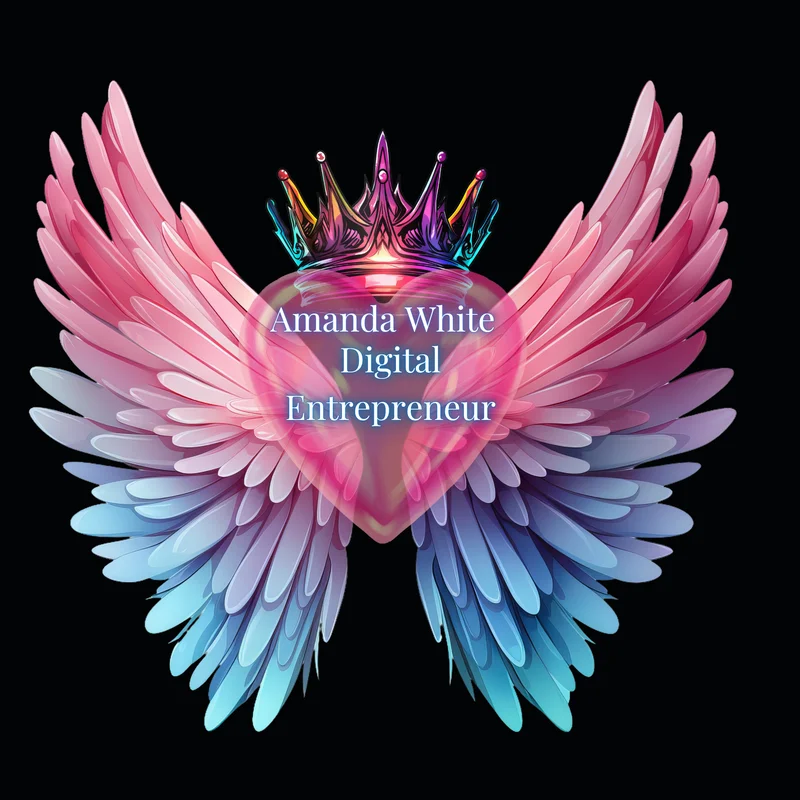
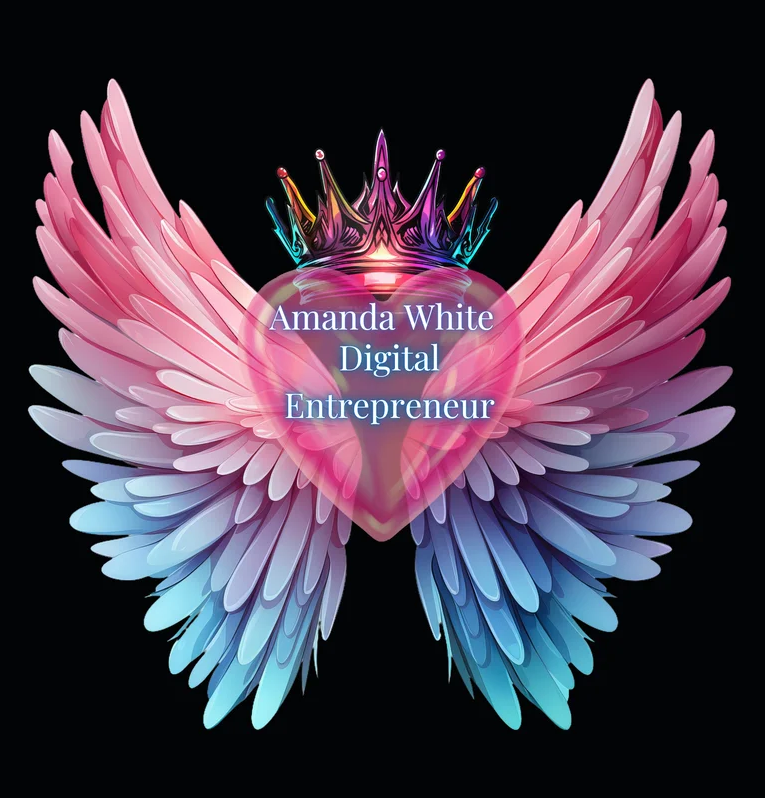
updated image stylings

diff --git a/src/app/page.tsx b/src/app/page.tsx
@@ -250,11 +250,11 @@ export default function Home() {
                     'linear-gradient(to bottom, rgba(0, 0, 0, 0) 0%, rgba(0, 0, 0, 0.8) 50%, rgba(0, 0, 0, 0.95) 75%, #000000 100%)',
                 }}
               />
-              <div className="mx-auto h-[40dvh] sm:mt-12 sm:h-48 sm:w-40 md:h-72 md:w-64">
+              <div className="mx-auto h-[52dvh] w-[95%] sm:mt-12 sm:h-48 sm:w-40 md:h-72 md:w-64">
                 <img
                   src={Amanda_img.src}
                   alt="Founders"
-                  className="h-full w-full object-cover object-top sm:rounded-3xl"
+                  className="h-full w-full object-contain sm:object-cover object-top sm:rounded-3xl"
                 />
               </div>
             </div>
